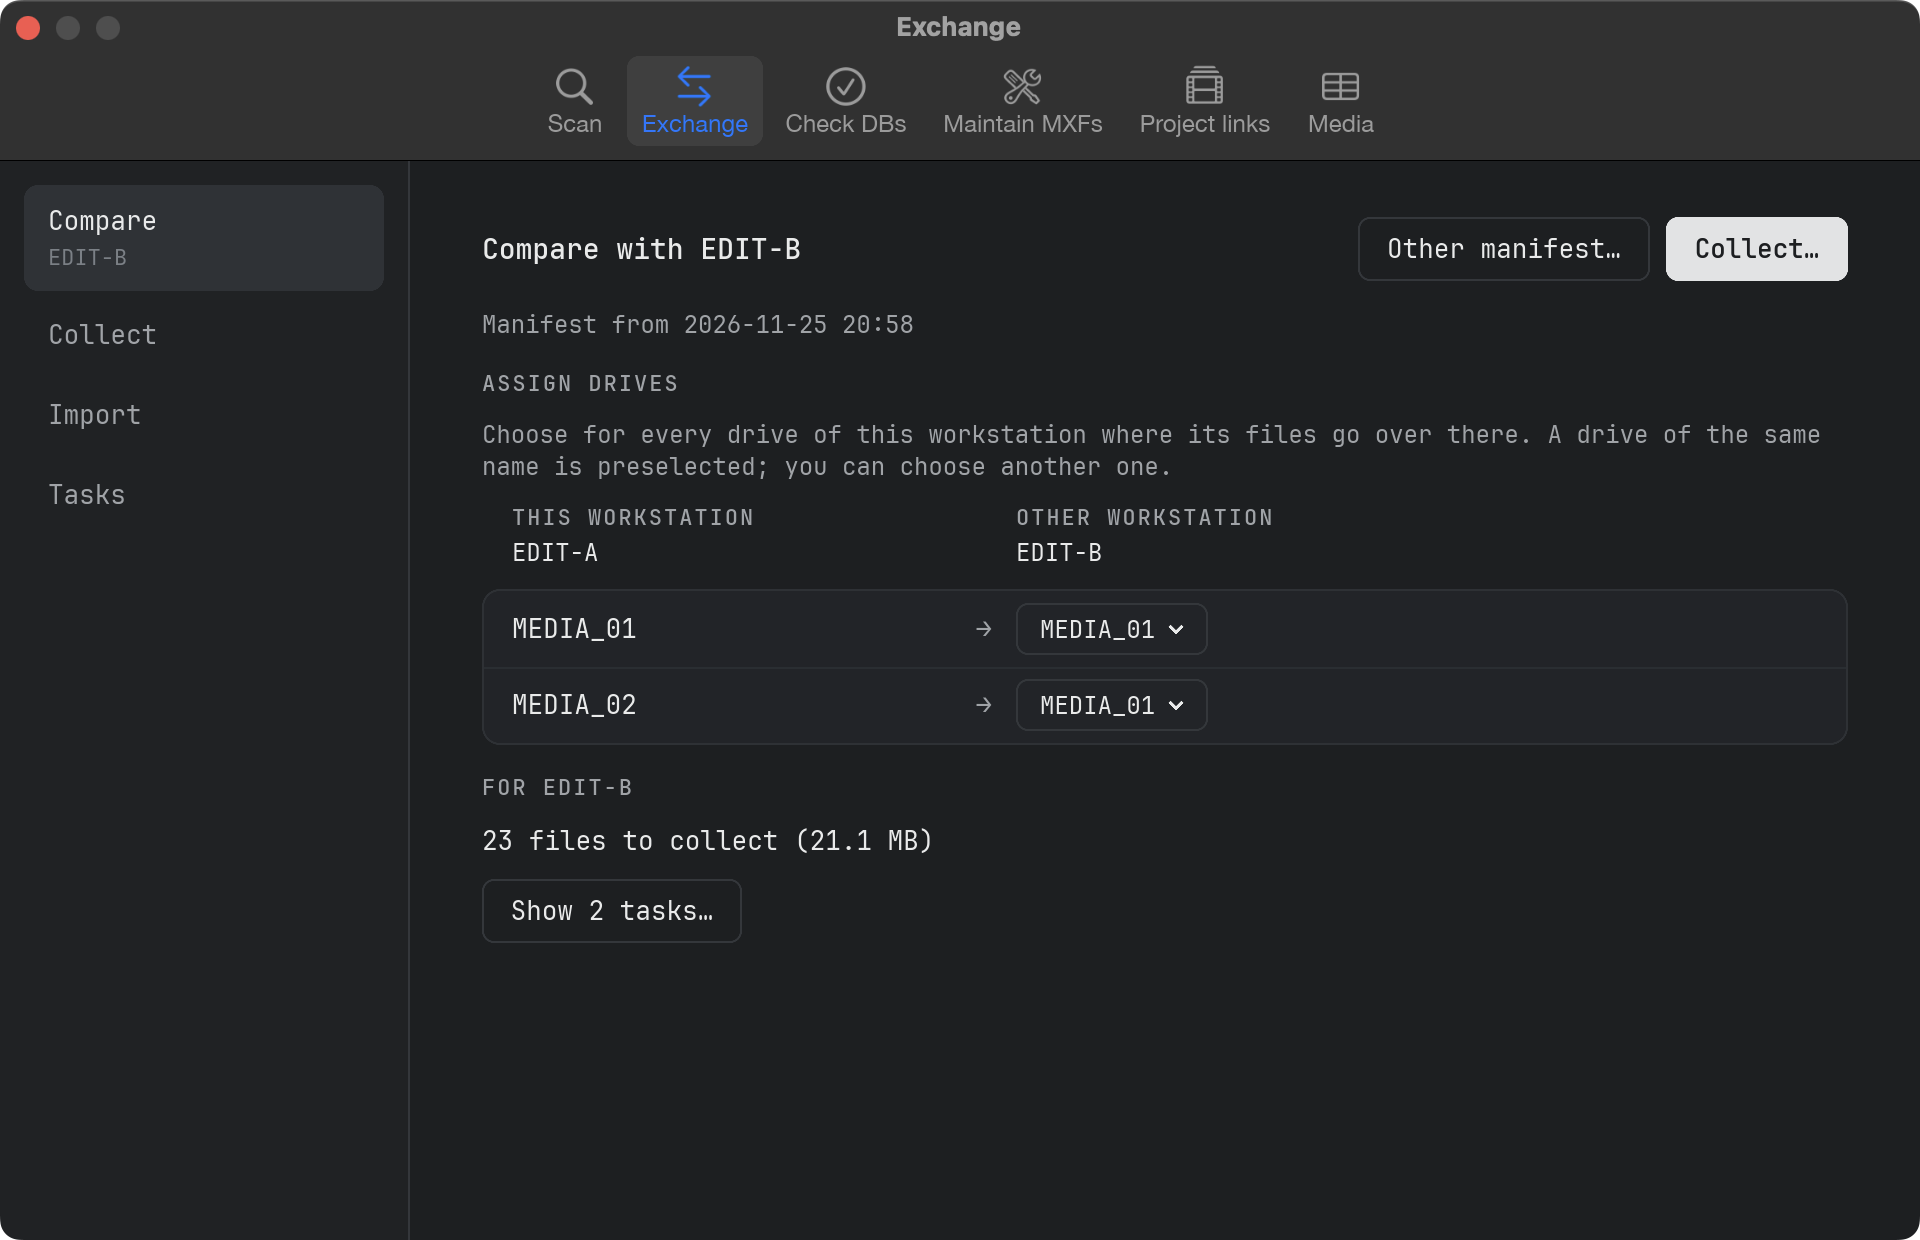
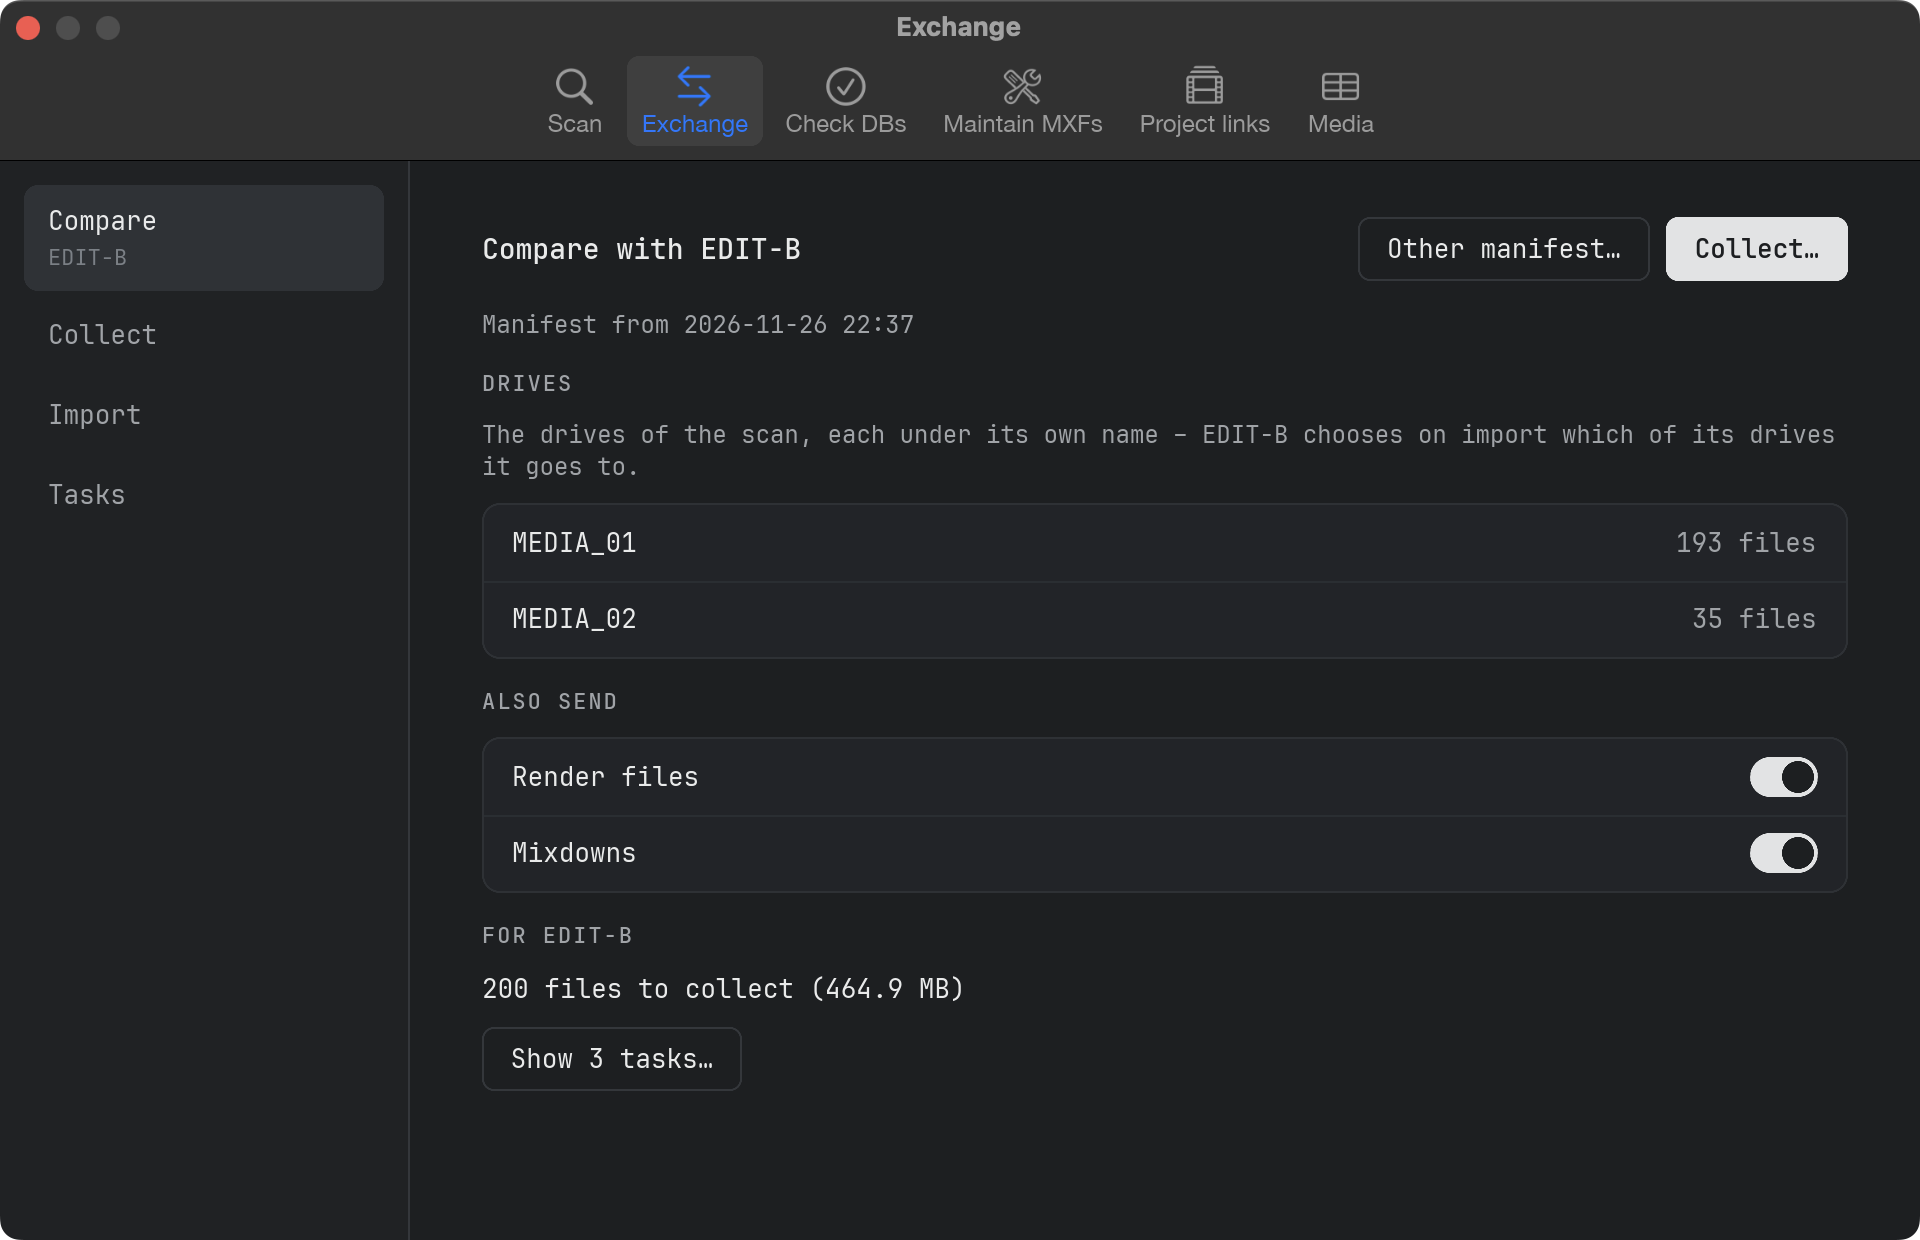
New Compare pictures in the manual and README; French "1 GB"
The Compare page lost the drive assignment and gained the drive list and
the ALSO SEND card – the pictures (four languages, README dark + light)
show it now. The French "another place" question said "Go" while the
app shows sizes in MB/GB everywhere.

diff --git a/src/app.rs b/src/app.rs
@@ -410,7 +410,7 @@ fn collect_to(app: &AppWindow, compare: &Rc<RefCell<Option<Compare>>>, mut paren
         let question = pick(&lang, [
             "{} more is needed than fits there (1 GB stays free on every drive). Choose another place? The delivery is then split into parts.",
             "Es fehlen noch {} Platz (auf jedem Laufwerk bleibt 1 GB frei). Einen weiteren Ort wählen? Die Lieferung wird dann in Teile aufgeteilt.",
-            "Il manque encore {} de place (1 Go reste libre sur chaque disque). Choisir un autre emplacement ? La livraison sera alors divisée en parties.",
+            "Il manque encore {} de place (1 GB reste libre sur chaque disque). Choisir un autre emplacement ? La livraison sera alors divisée en parties.",
             "Faltan {} de espacio (en cada disco quedan libres 1 GB). ¿Elegir otro lugar? La entrega se dividirá en partes.",
         ]).replace("{}", &exflow::format_size(missing, &lang));
         let compare = compare.clone();

diff --git a/docs/help/fr.md b/docs/help/fr.md
@@ -49,7 +49,7 @@ L’analyse écrit aussi le *manifeste* d’Échange : chaque fichier MXF des di
 3. **Disques et ce qui part avec :** la page liste les disques de l’analyse – chacun part sous son propre nom, l’autre poste choisit à l’importation sur lequel de ses disques il va. Les disques envoyés sont ceux que vous analysez. Sous **Envoyer aussi**, désactivez **Fichiers de rendu** ou **Mixdowns** pour les exclure (reconnus à leur en-tête MXF ; un dossier auquel ils manquent alors reçoit la tâche « Reconstruire la base de données » au lieu de sa base). Le choix est mémorisé. Avec une analyse plus ancienne, la page demande d’analyser à nouveau.
 4. Vérifiez le nombre de fichiers – **Afficher … tâches…** ouvre les tâches dans une fenêtre à part –, puis cliquez sur **Rassembler…** et choisissez où créer le dossier de livraison.
 
-Chaque fichier est copié avec contrôle de somme dans un nouveau dossier comme `261102-1830_Mac Studio_to_MacBook`, avec `Tasks.txt` (instructions pour importer à la main). Rassembler à nouveau après une interruption reprend là où cela s’est arrêté. **Trop peu de place :** si la livraison ne tient pas (1 Go reste libre sur chaque disque), MediaFiles Check demande un autre emplacement – sur un autre disque – et divise la livraison en parties (`…_part1of2`, `…_part2of2`), en gardant un dossier ensemble si possible.
+Chaque fichier est copié avec contrôle de somme dans un nouveau dossier comme `261102-1830_Mac Studio_to_MacBook`, avec `Tasks.txt` (instructions pour importer à la main). Rassembler à nouveau après une interruption reprend là où cela s’est arrêté. **Trop peu de place :** si la livraison ne tient pas (1 GB reste libre sur chaque disque), MediaFiles Check demande un autre emplacement – sur un autre disque – et divise la livraison en parties (`…_part1of2`, `…_part2of2`), en gardant un dossier ensemble si possible.
 
 ![Comparer avec un autre poste](images/fr/exchange.png)
 
